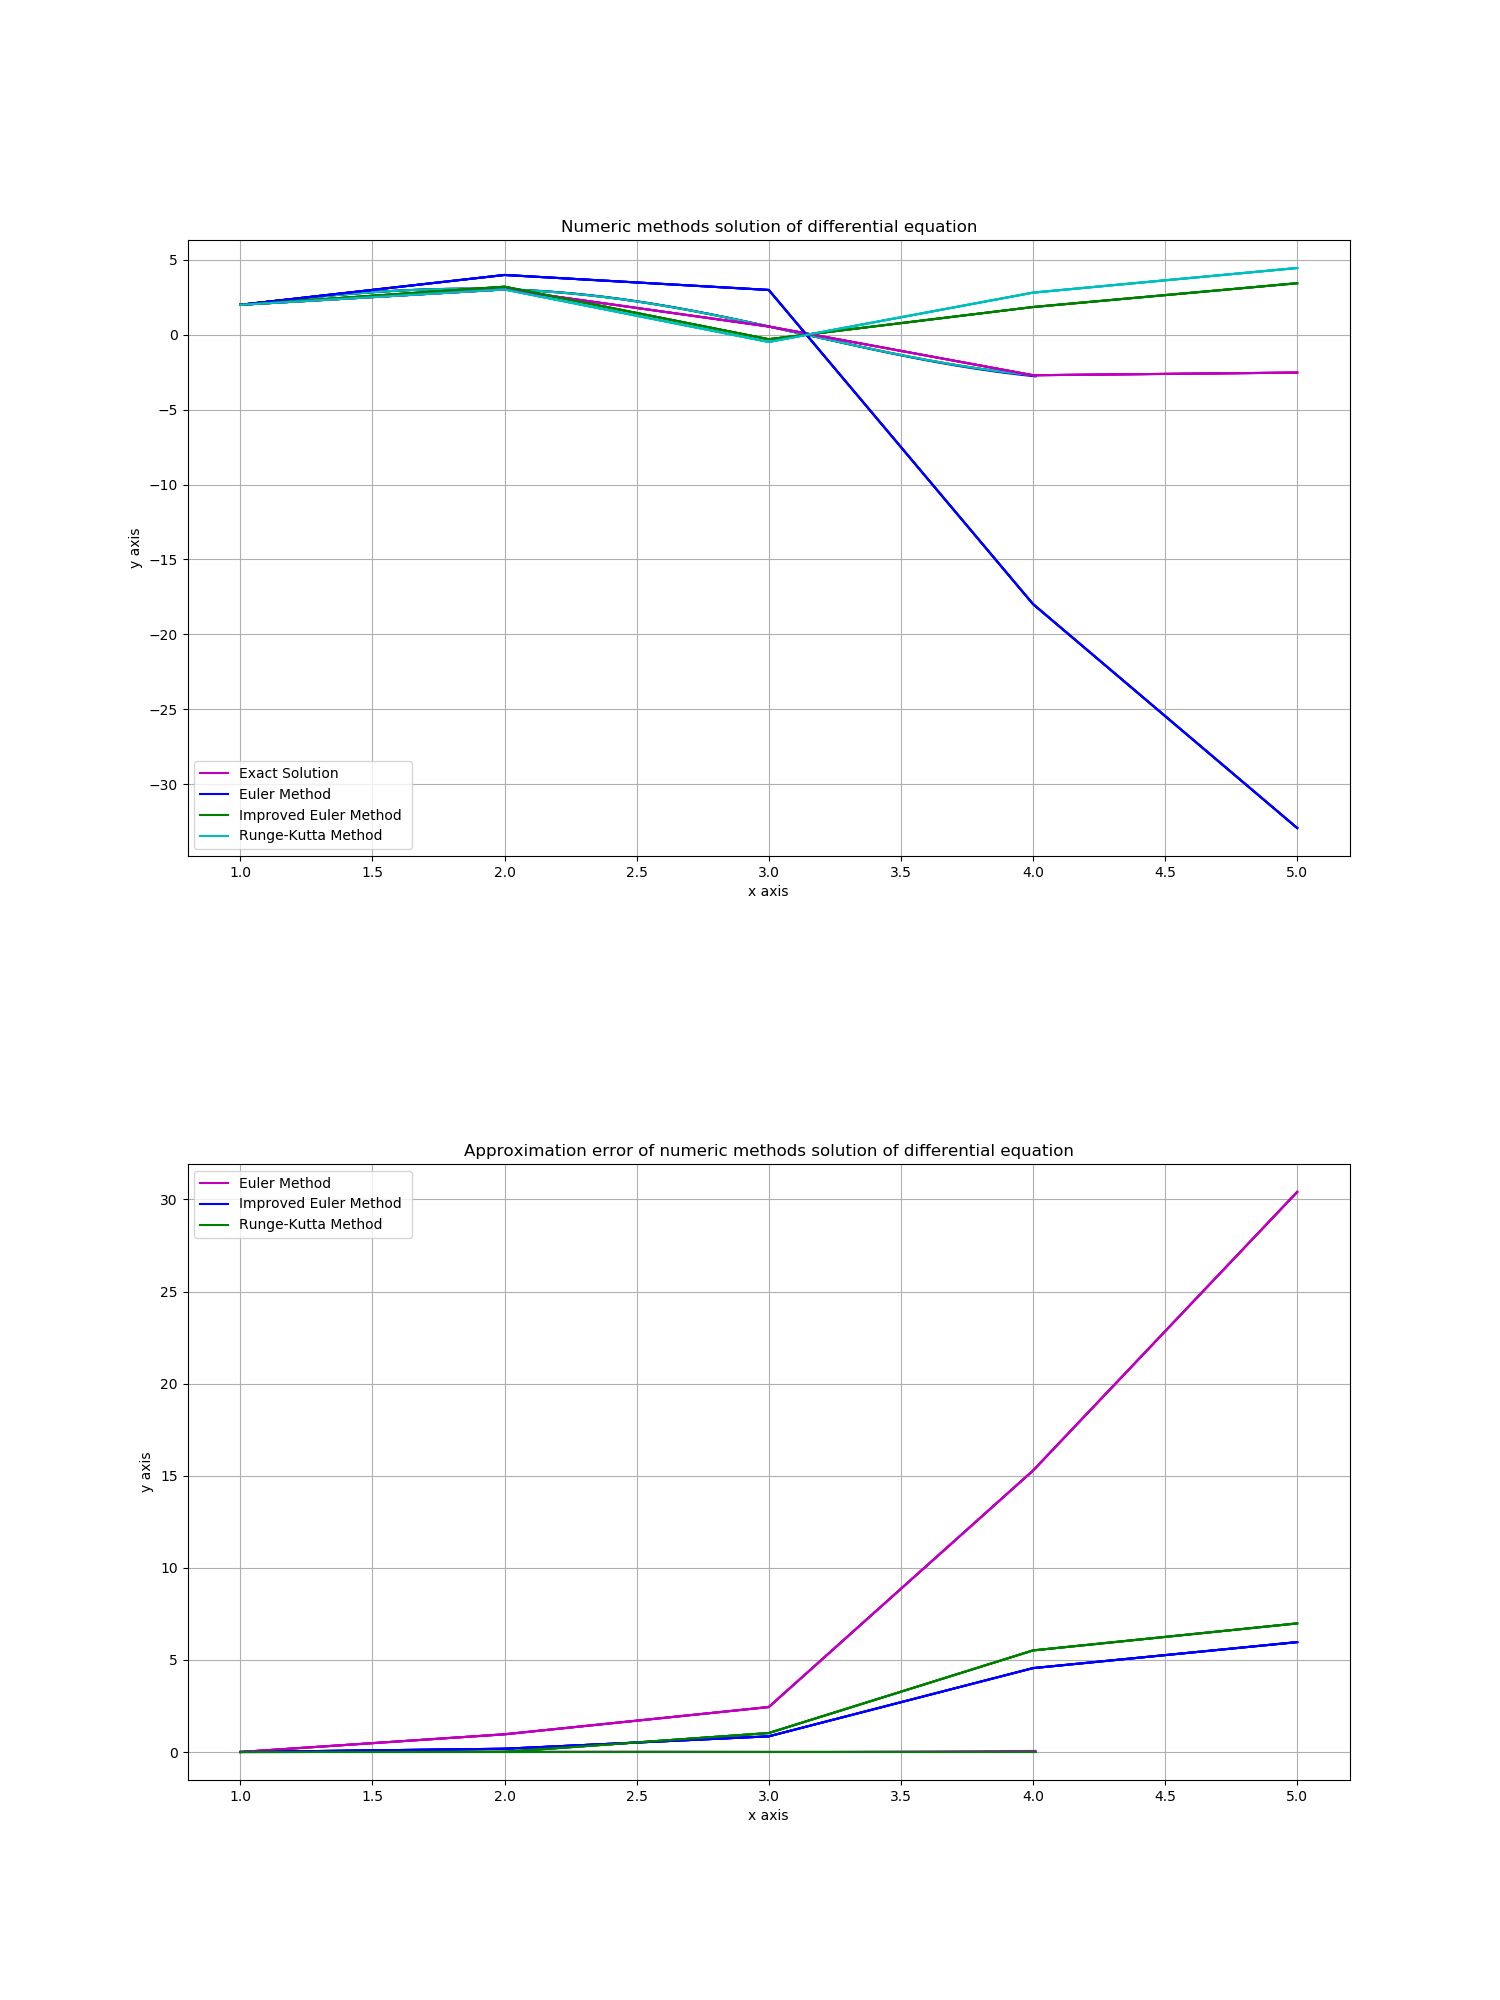
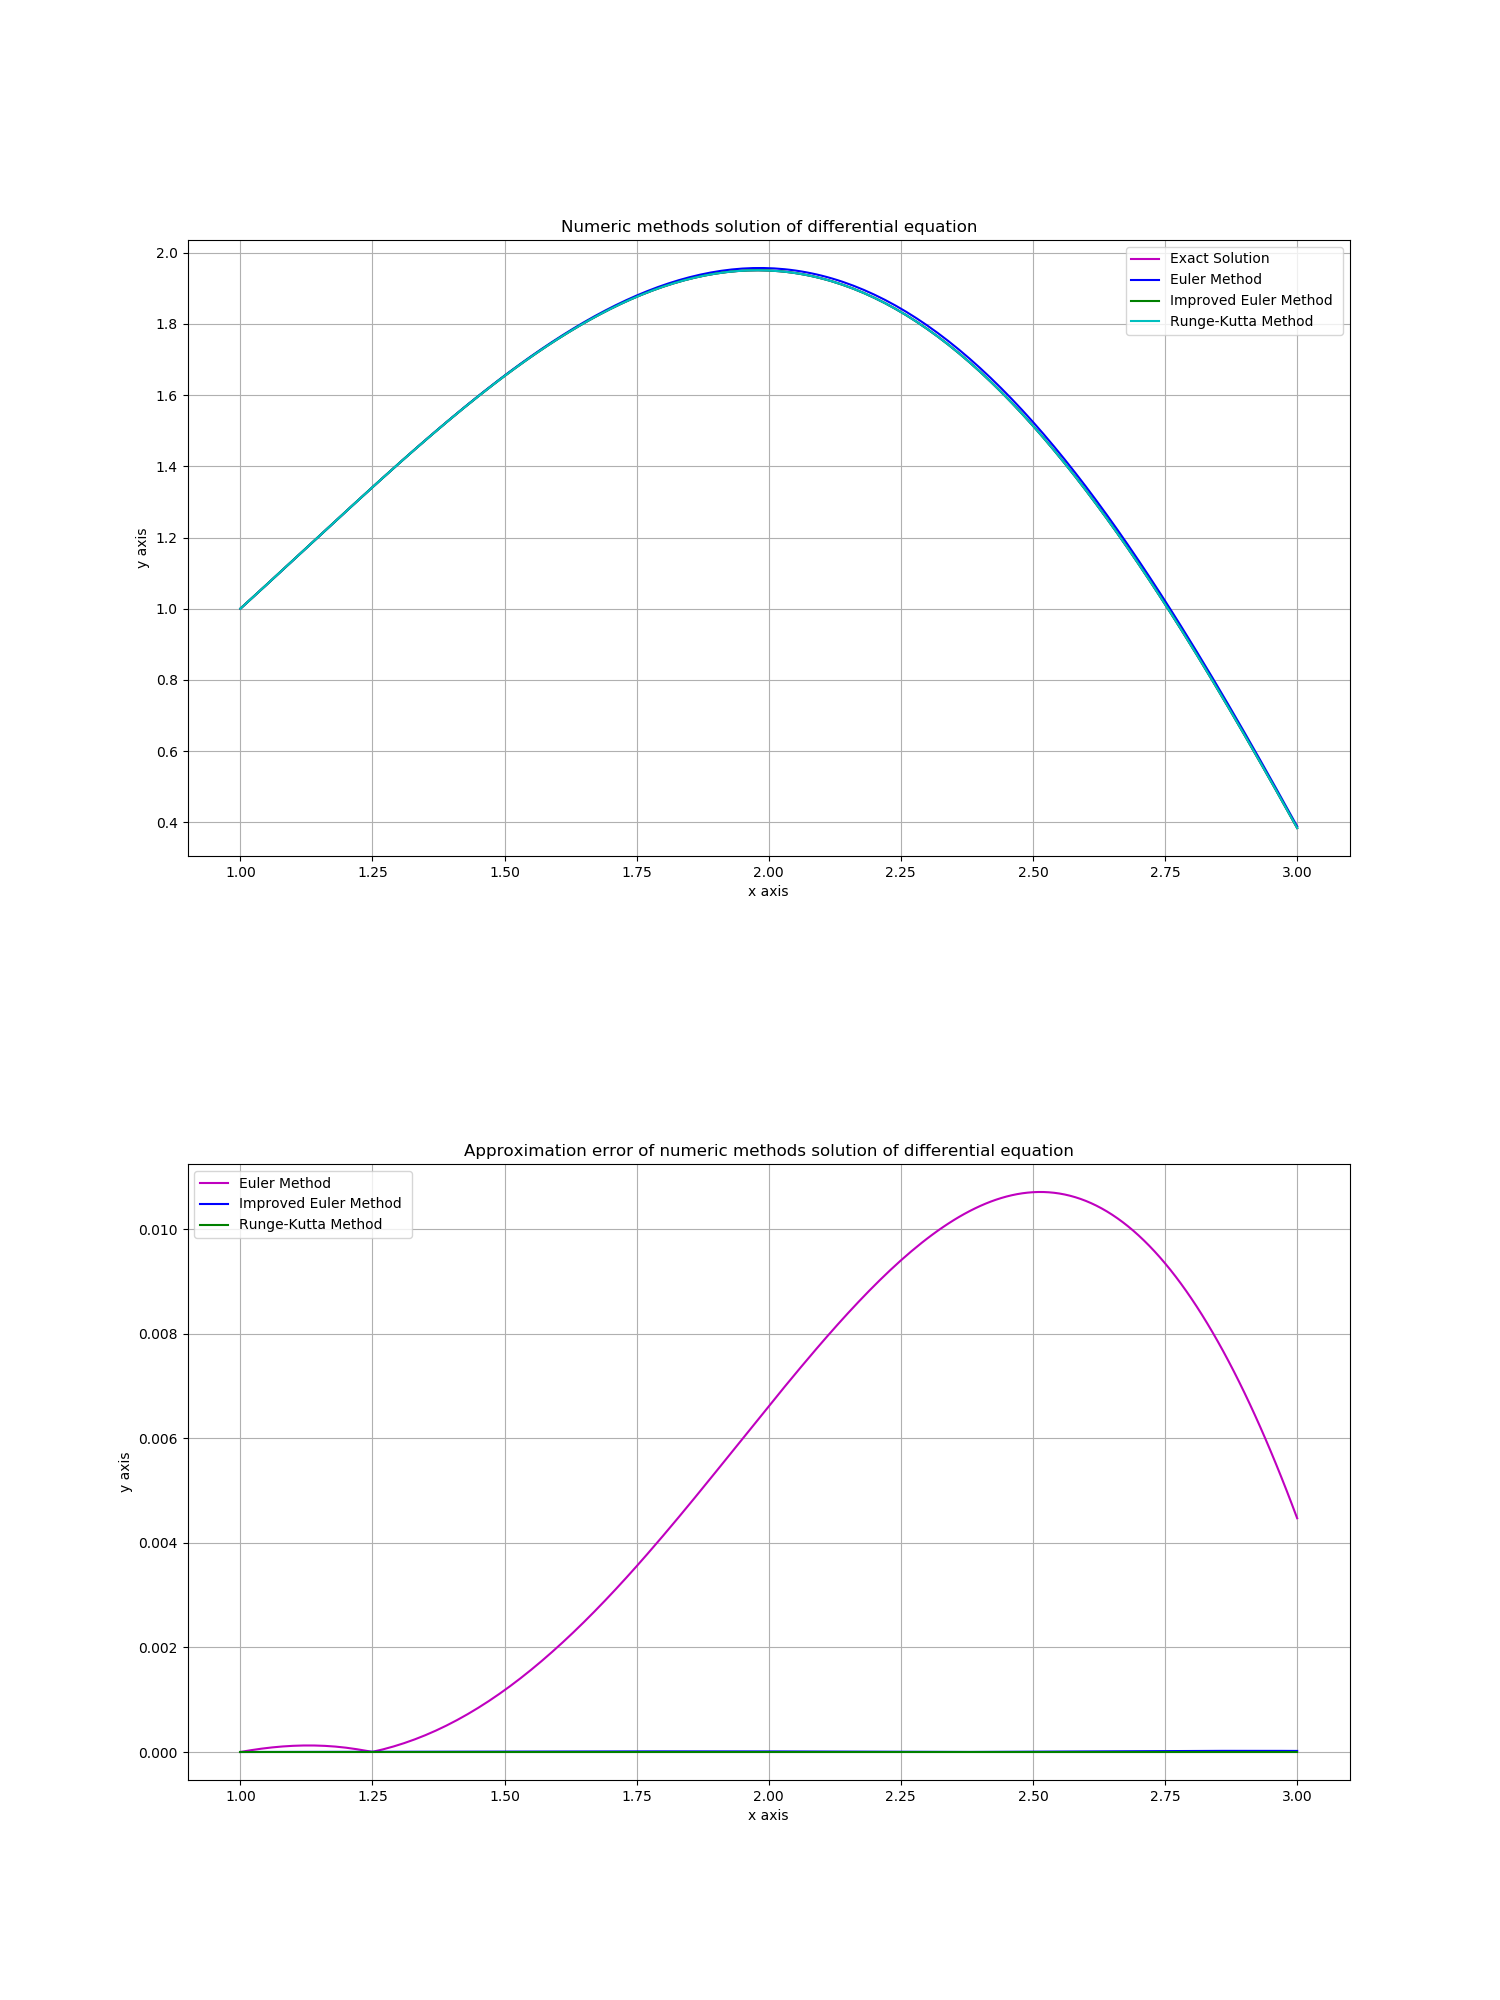
input is changed as it necessary for assigment, hence - html and classes main, GraphBuilder, Methods are changed. Functions for every Numeric Solution is improved, less of code - more logic

diff --git a/templates/index.html b/templates/index.html
@@ -1,29 +1,37 @@
 <!DOCTYPE html>
 <html lang="en">
-<head>
-    <meta charset="UTF-8">
-    <title>Differential Equations task</title>
-</head>
-<body>
-
-<center><h1> Difference between numerical methods </h1></center>
-
-<form action = "/" method = "POST" style="float:left;width:2s0%">
-
-         <left><h2> Enter values: </h2></left>
-         <p>Initial x <input type = "text" name = "x_initial" value="{{x0}}" /></p>
-         <p>Initial y <input type = "text" name = "y_initial" value="{{y0}}"/></p>
-         <p>Start point <input type = "text" name = "diapazone_start" value="{{start_x}}"/></p>
-         <p>End point <input type ="text" name = "diapazone_end" value="{{end_x}}"/></p>
-         <p> Step <input type ="text" name = "h" value="{{step_x}}"/></p>
-
-         <p><input type = "submit" value = "Build the graphs!" /></p>
-      </form>
-
-{% if show_image %}
-    <img src="static/graphs.png" style="width:80%"/>
-  {% else %}
+    <head>
+        <meta charset="UTF-8">
+        <title>Differential Equations task</title>
+    </head>
+    <body>
+        <center>
+            <h1>Difference between numerical methods </h1>
+        </center>
+        <form action="/" method="POST" style="float:left;width:2s0%">
+            <left>
+                <h2>Enter values: </h2>
+            </left>
+            <p>
+                Initial x <input type="number" step = "any" name="x_initial" value="{{x0}}"/>
+            </p>
+            <p>
+                Initial y <input type="number" step = "any" name="y_initial" value="{{y0}}"/>
+            </p>
+            <p>
+                X <input type="number" step = "any" name="diapazone_end" value="{{end_x}}"/>
+            </p>
+            <p>
+                N <input type="number" step="any" name="h" value="{{step_x}}"/>
+            </p>
+            <p>
+                <input type="submit" value="Build the graphs!"/>
+            </p>
+        </form>
+        {% if show_image %}
+    <img src="static/graphs.png" style="width:80%"/>{% else %}
   {% endif %}
 
-</body>
+
+    </body>
 </html>

diff --git a/methods.py b/methods.py
@@ -31,97 +31,90 @@ class Methods:
     def get_const(self, x0, y0):
         return (y0 + math.sin(x0) * math.cos(x0)) / math.sin(x0)
 
+    def set_x(self, input, table_x):
+        x0 = input[0]
+        X = input[2]
+        h = abs((x0 - X)/input[3])
+
+        curr = x0
+        while curr <= X:
+            table_x.append(curr)
+            curr+=h
+
+
     # Returns the value of Y by founded exact solution
     def exact_solution(self, input, table_x, table_y):
-        # input format - [x_initial, y_initial, diapazone_start, diapazone_end, h]
-        x0 = input[0]
+        # input format - [x_initial, y_initial, diapazone_end, h]
+
+        x0 = table_x[0]
         y0 = input[1]
-        h = input[4]
-        pointer = input[2]
 
         const = self.get_const(x0, y0)
 
-        while (pointer <= input[3]):
-            if not table_y:
-                table_x.append(input[0])
-                table_y.append(input[1])
-            else:
-                x_i = table_x[len(table_x) - 1]
+        for i in table_x:
+            y_curr = math.sin(i) * const - math.sin(i) * math.cos(i)
+            table_y.append(y_curr)
 
-                # general sol is y = sin(x) * C - sin(x) * cos(x)
-                x_next = x_i + h
-                y_next = math.sin(x_next) * const - math.sin(x_next) * math.cos(x_next)
-
-                table_x.append(x_next)
-                table_y.append(y_next)
-                pointer += h
 
     # Retuns the value of Y by Euler Method
-    def euler_method(self, input, table_y):
-        table_x = []
-        h = input[4]
-        pointer = input[2]
-        while (pointer <= input[3]):
-            if not table_y:
-                table_x.append(input[0])
-                table_y.append(input[1])
-            else:
-                x_i = table_x[len(table_x) - 1]
-                y_i = table_y[len(table_y) - 1]
+    def euler_method(self, input, table_x, table_y):
+        x0 = input[0]
+        X = input[2]
+        h = abs((x0 - X)/input[3])
+        y0 = input[1]
 
-                x_next = x_i + h
-                y_next = y_i + h * self.get_value(x_i, y_i)
 
-                table_x.append(x_next)
-                table_y.append(y_next)
-                pointer += h
+        if not table_y:
+            table_y.append(y0)
+
+        index = 1
+        while index < len(table_x):
+            x_prev = table_x[index-1]
+            y_prev = table_y[index-1]
+            table_y.append(y_prev + h * self.get_value(x_prev, y_prev))
+            index+=1
 
     # Returns the value of Y by Improved Euler Method
-    def improved_euler_method(self, input, table_y):
+    def improved_euler_method(self, input, table_x, table_y):
+        x0 = input[0]
+        X = input[2]
+        h = abs((x0 - X)/input[3])
+        y0 = input[1]
 
-        table_x = []
 
-        h = input[4]
-        pointer = input[2]
-        while (pointer <= input[3]):
-            if not table_y:
-                table_x.append(input[0])
-                table_y.append(input[1])
-            else:
-                x_i = table_x[len(table_x) - 1]
-                y_i = table_y[len(table_y) - 1]
-                delta_y = h * self.get_value(x_i + h / 2, y_i + h / 2 * self.get_value(x_i, y_i))
+        if not table_y:
+            table_y.append(y0)
 
-                x_next = x_i + h
-                y_next = y_i + delta_y
+        index = 1
+        while index < len(table_x):
+            x_prev = table_x[index-1]
+            y_prev = table_y[index-1]
 
-                table_x.append(x_next)
-                table_y.append(y_next)
-                pointer += h
-        table = [table_x, table_y]
-        return table
+            delta_y = h * self.get_value(x_prev + h / 2, y_prev + h / 2 * self.get_value(x_prev, y_prev))
+            table_y.append(y_prev + delta_y)
+            index+=1
 
     # Returns the value of Y by Runge Kutta Method
-    def runge_kutta_method(self, input, table_y):
-        table_x = []
-        h = input[4]
-        pointer = input[2]
-        while (pointer <= input[3]):
-            if not table_y:
-                table_x.append(input[0])
-                table_y.append(input[1])
-            else:
-                x_i = table_x[len(table_x) - 1]
-                y_i = table_y[len(table_y) - 1]
-                k1 = self.get_value(x_i, y_i)
-                k2 = self.get_value(x_i + h / 2, y_i + h * k1 / 2)
-                k3 = self.get_value(x_i + h / 2, y_i + h * k2 / 2)
-                k4 = self.get_value(x_i + h, y_i + h * k3)
-                delta_y = h / 6 * (k1 + 2 * k2 + 2 * k3 + k4)
+    def runge_kutta_method(self, input,table_x,  table_y):
 
-                x_next = x_i + h
-                y_next = y_i + delta_y
+        x0 = input[0]
+        X = input[2]
+        h = abs((x0 - X)/input[3])
+        y0 = input[1]
 
-                table_x.append(x_next)
-                table_y.append(y_next)
-                pointer += h
+
+        if not table_y:
+            table_y.append(y0)
+
+        index = 1
+        while index < len(table_x):
+            x_prev = table_x[index-1]
+            y_prev = table_y[index-1]
+
+            k1 = self.get_value(x_prev, y_prev)
+            k2 = self.get_value(x_prev + h / 2, y_prev + h * k1 / 2)
+            k3 = self.get_value(x_prev + h / 2, y_prev + h * k2 / 2)
+            k4 = self.get_value(x_prev + h, y_prev + h * k3)
+            delta_y = h / 6 * (k1 + 2 * k2 + 2 * k3 + k4)
+            table_y.append(y_prev+delta_y)
+            index += 1

diff --git a/graphbuilder.py b/graphbuilder.py
@@ -31,19 +31,33 @@ class GraphBuilder:
         # Set values given by Numeric methods
         # ------------------------------------------------
 
+        methods.set_x(input_parameters, self.x_common)
+
         methods.exact_solution(input_parameters, self.x_common, self.y_exact)
-        methods.euler_method(input_parameters, self.y_euler)
-        methods.improved_euler_method(input_parameters, self.y_imp_euler)
-        methods.runge_kutta_method(input_parameters, self.y_fk)
+        methods.euler_method(input_parameters, self.x_common, self.y_euler)
+        methods.improved_euler_method(input_parameters,self.x_common, self.y_imp_euler)
+        methods.runge_kutta_method(input_parameters,self.x_common, self.y_fk)
 
         # ------------------------------------------------
-        # Set values of approximation errors
+        # Set values of Local approximation errors
         # ------------------------------------------------
 
         for i in range(len(self.y_exact)):
             self.diff_exact_euler.append(abs(self.y_exact[i] - self.y_euler[i]))
             self.diff_exact_imp_euler.append(abs(self.y_exact[i] - self.y_imp_euler[i]))
             self.diff_exact_rk.append(abs(self.y_exact[i] - self.y_fk[i]))
+
+
+
+        print("X _ com = " + str(len(self.x_common)))
+        print("Y exac " + str(len(self.y_exact)))
+        print("Y euler " + str(len(self.y_euler)))
+        print("Y imp euler "+ str(len(self.y_imp_euler)))
+        print("Y FK" + str(len(self.y_fk)))
+
+        print("E E " + str(len(self.diff_exact_euler)))
+        print("E IE " + str(len(self.diff_exact_imp_euler)))
+        print("E FK " + str(len(self.diff_exact_rk)))
 
     def build(self, input_parameters, show=False):
         # Main function for building the graph
@@ -72,7 +86,7 @@ class GraphBuilder:
         pylab.grid()
 
         # ------------------------------------------------
-        # Second - Graph of approximation error given by Numeric methods
+        # Second - Graph of Local approximation error given by Numeric methods
         # ------------------------------------------------
 
         pylab.subplot(212)

diff --git a/main.py b/main.py
@@ -1,6 +1,12 @@
 from graphbuilder import GraphBuilder
 from flask import Flask, render_template, request
 
+# # TESTING PART
+# input_temp = [1, 1,3, 200]
+# builder = GraphBuilder()
+# builder.build(input_temp)
+
+
 app = Flask(__name__)
 
 
@@ -17,8 +23,8 @@ def result():
     if request.method == 'POST':
         dictionary = request.form
 
-        # input - [x_initial, y_initial, diapazone_start, diapazone_end, h]
-        input = [dictionary['x_initial'], dictionary['y_initial'], dictionary['diapazone_start'],
+        # input - [x_initial, y_initial, diapazone_end, h]
+        input = [dictionary['x_initial'], dictionary['y_initial'],
                  dictionary['diapazone_end'], dictionary['h']]
 
         for i in range(len(input)):
@@ -28,8 +34,8 @@ def result():
         builder = GraphBuilder()
         builder.build(input)
 
-        return render_template("index.html", result=input, show_image=True, x0=input[0], y0=input[1], start_x=input[2],
-                               end_x=input[3], step_x=input[4])
+        return render_template("index.html", result=input, show_image=True, x0=input[0], y0=input[1],
+                               end_x=input[2], amount_x=input[3])
     else:
         return render_template("index.html", show_image=False)
 

diff --git a/README.md b/README.md
@@ -1,1 +1,1 @@
-"Here is the readme"
+Here is the readme
